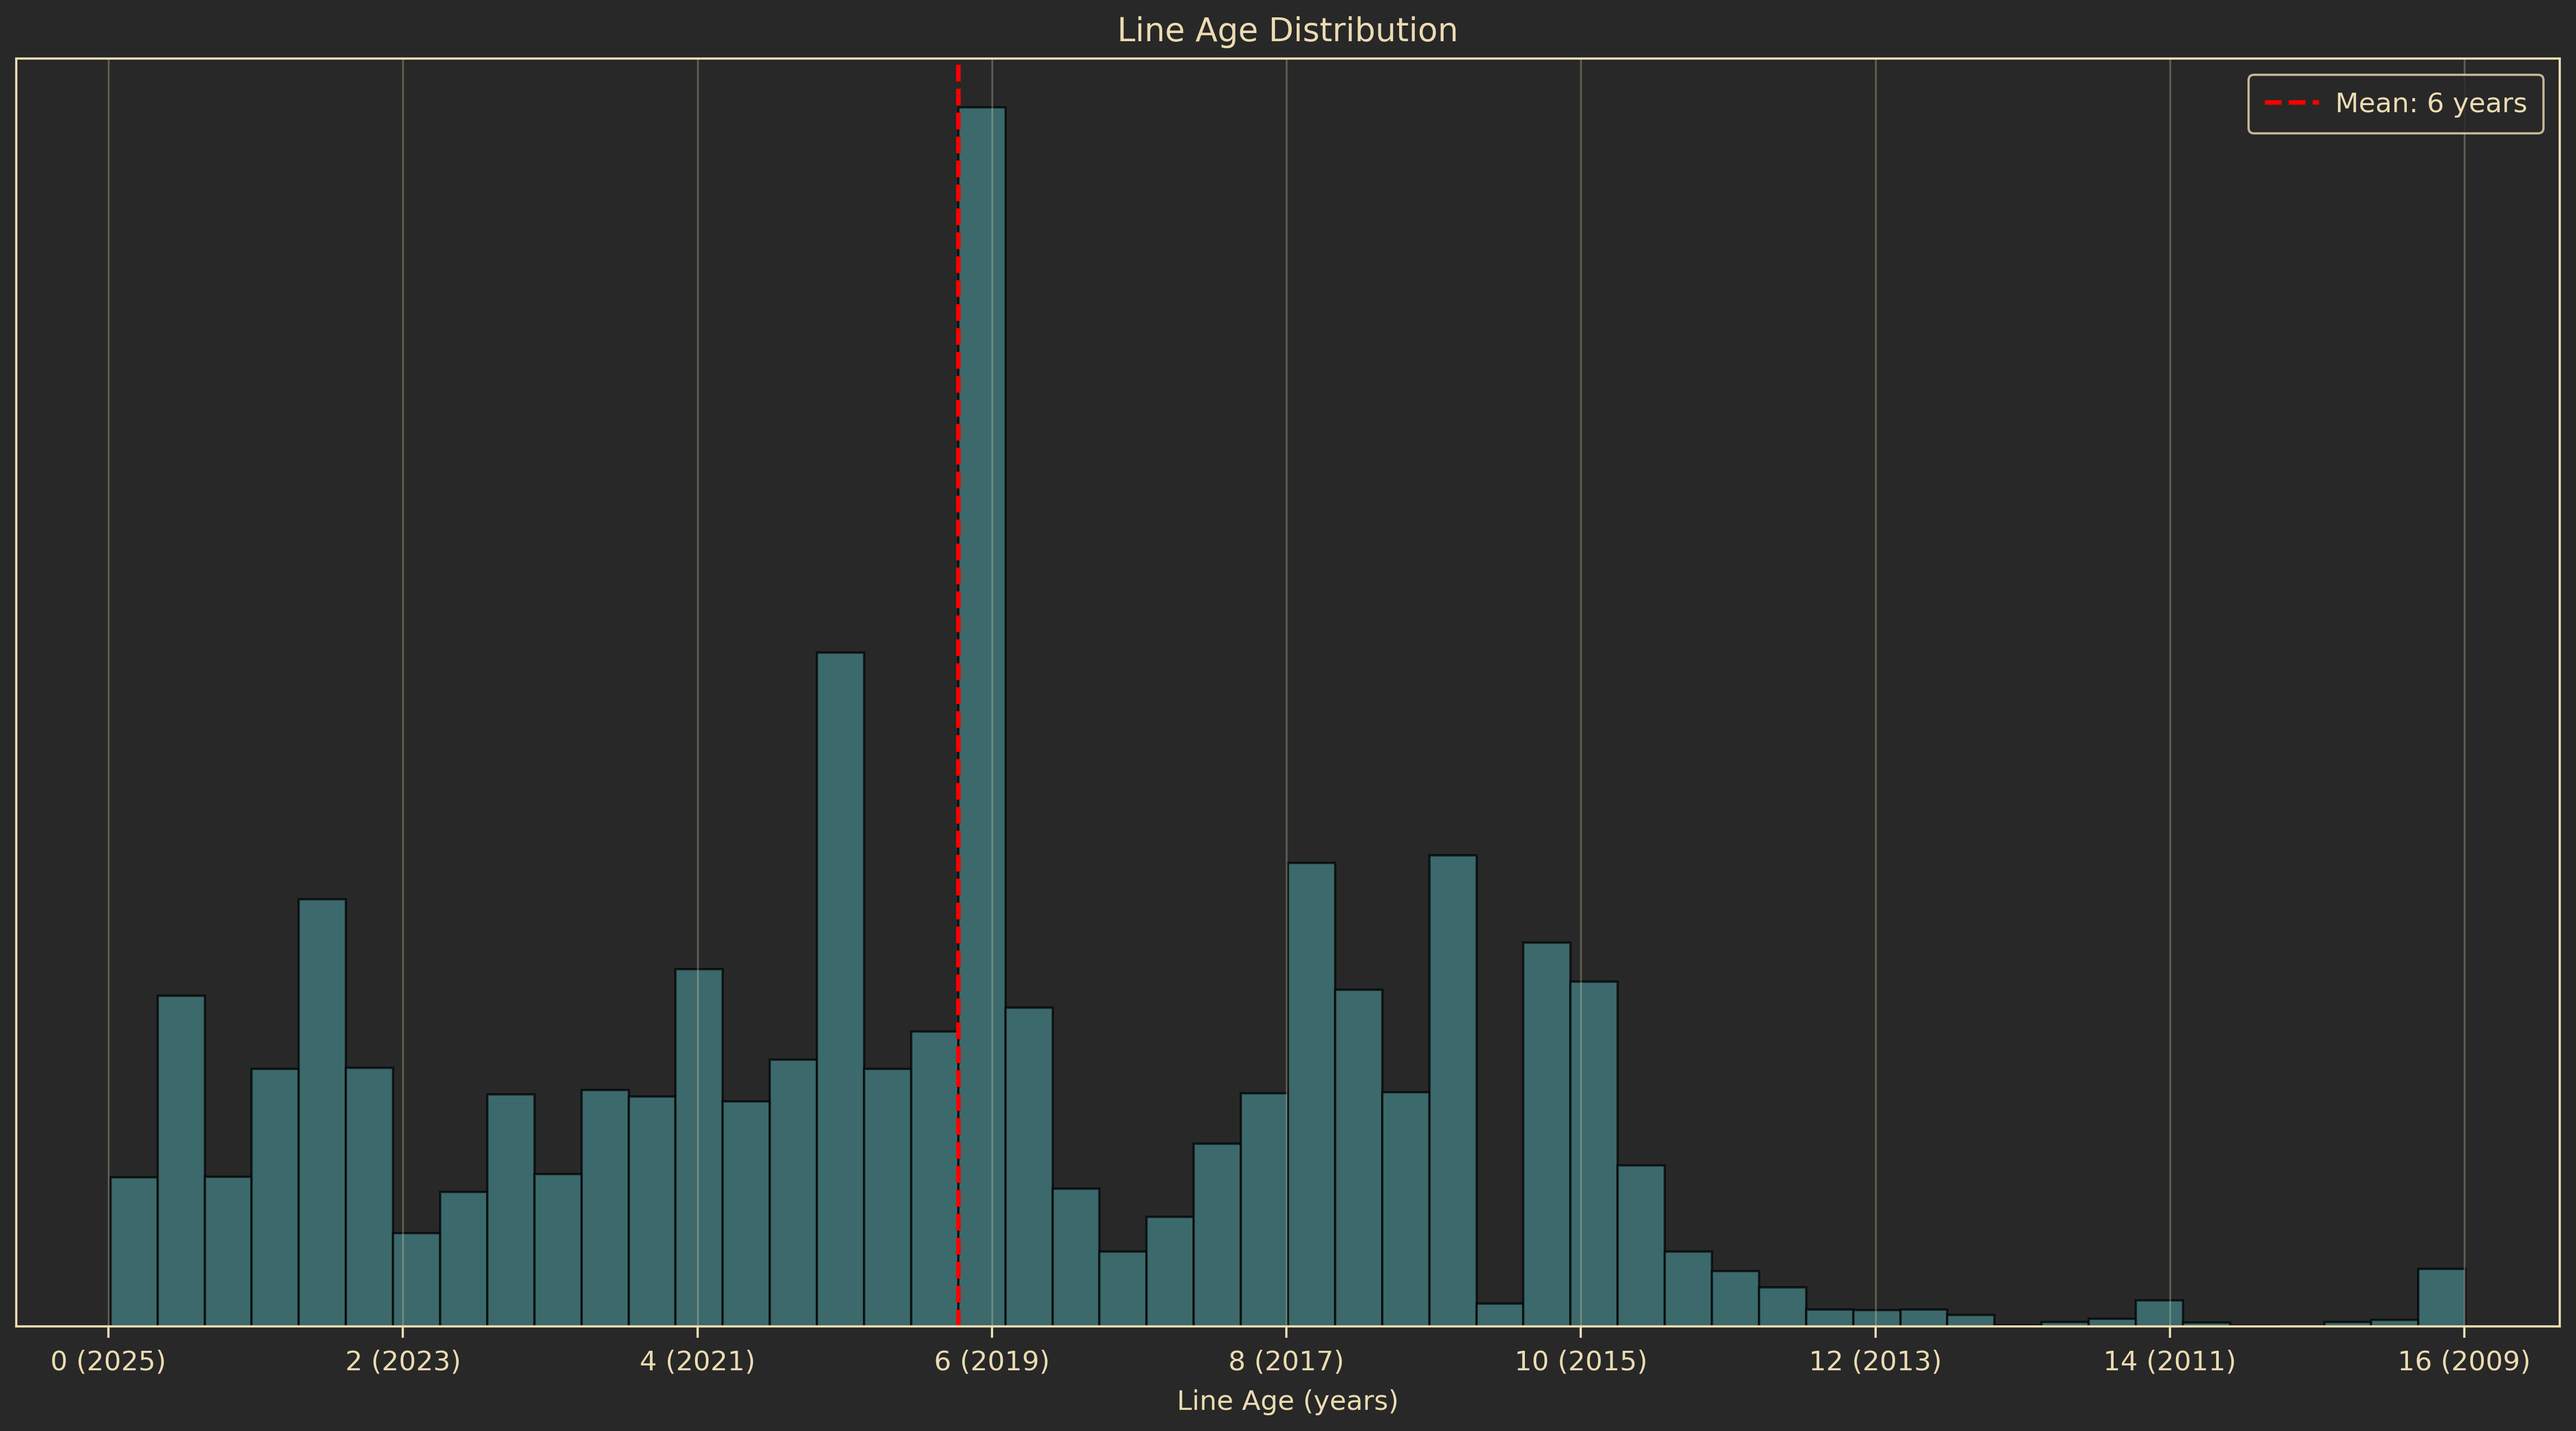
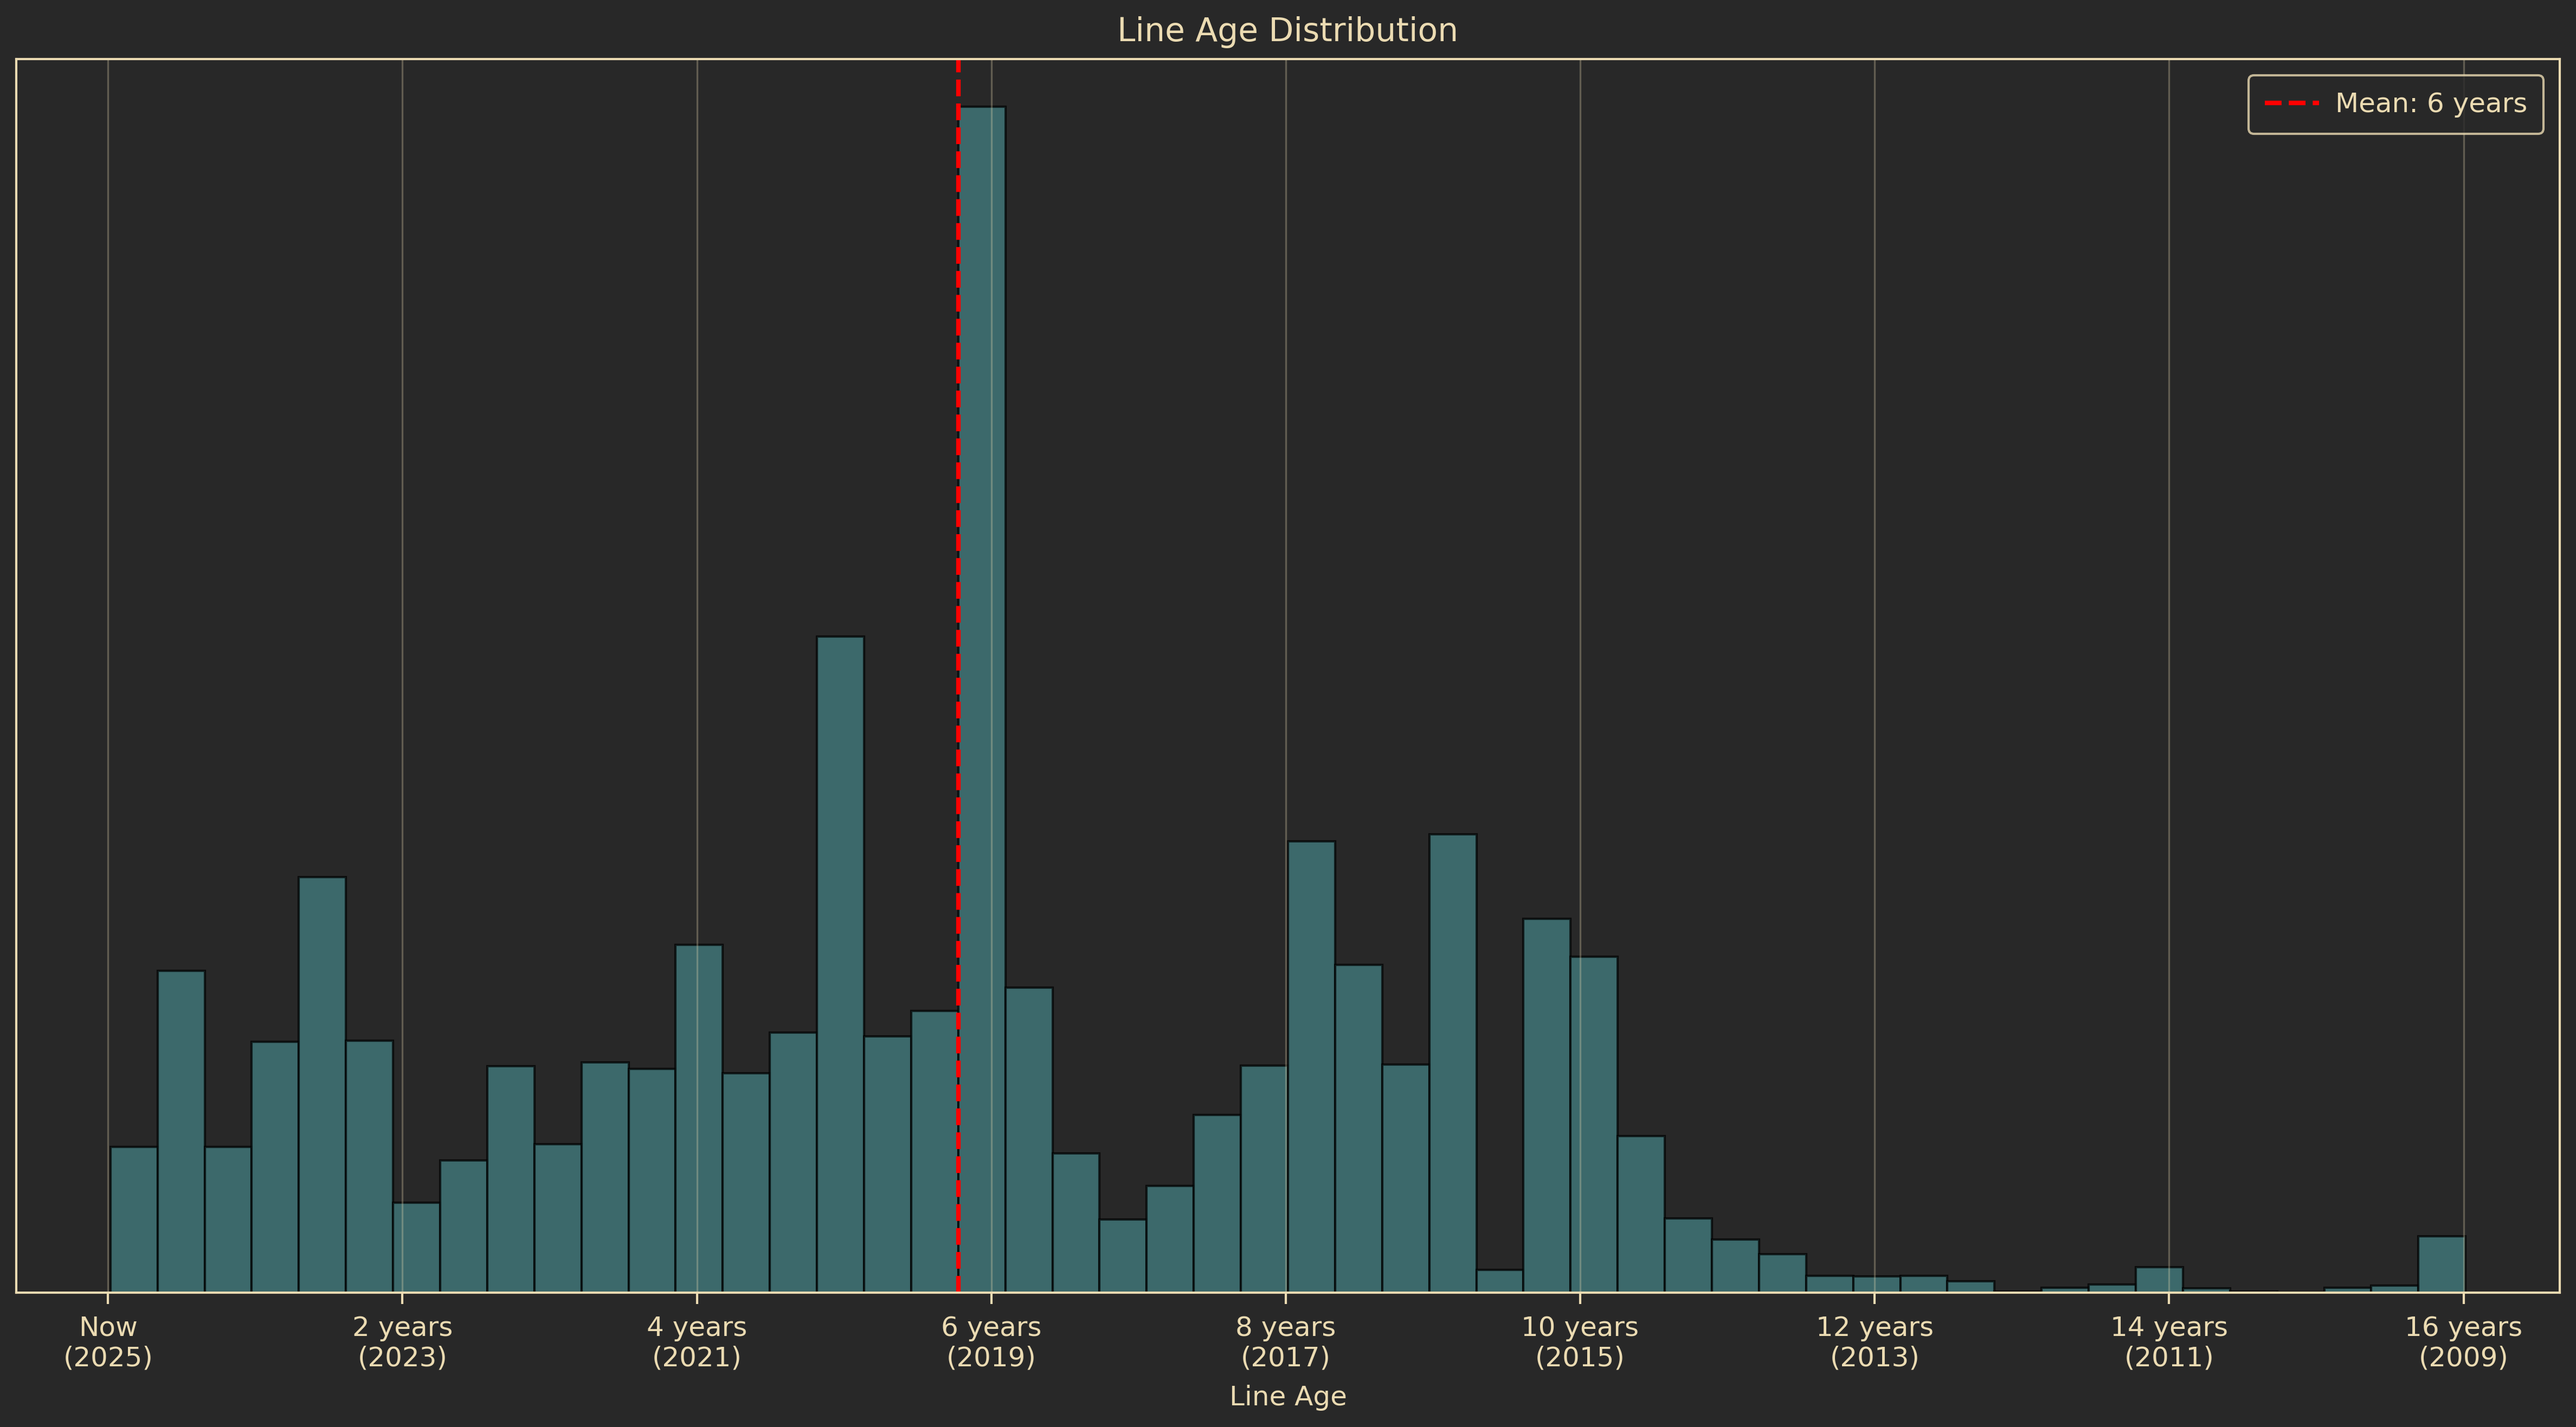
updates to speaker notes

diff --git a/stats/code_age.py b/stats/code_age.py
@@ -103,9 +103,17 @@ class GitTechDebtAnalyzer:
 
         # 1. Line Age Distribution
         # ax1 = plt.subplot(1, 2, 1)
+
+        def _formatter(x, _):
+            """Format x-axis ticks as years"""
+            x = int(x)
+            if x == 0:
+                return "Now\n(2025)"
+            return f"{int(x)} years\n({2025-x})"
+
         plt.gca().xaxis.set(
             # major_locator=mdates.YearLocator(),
-            major_formatter=ticker.FuncFormatter(lambda x, _: f"{int(x)} ({2025-int(x)})")
+            major_formatter=ticker.FuncFormatter(_formatter)
         )
         plt.hist(line_data["age_days"] / 365, bins=50, alpha=0.7, edgecolor="black")
         plt.axvline(
@@ -114,7 +122,7 @@ class GitTechDebtAnalyzer:
             linestyle="--",
             label=f"Mean: {line_data['age_days'].mean() / 365:.0f} years",
         )
-        plt.xlabel("Line Age (years)")
+        plt.xlabel("Line Age")
         # hide y-axis ticks
         plt.gca().yaxis.set_visible(False)
         # plt.ylabel("Frequency")
@@ -138,7 +146,7 @@ def main():
     #     "Enter repository path (or press Enter for current directory): "
     # ).strip()
     # if not repo_path:
-    repo_path = "/home/tomas/dev/indico"
+    repo_path = "/home/troun/dev/indico"
 
     analyzer = GitTechDebtAnalyzer(repo_path)
 

diff --git a/stats/overtime_commits.py b/stats/overtime_commits.py
@@ -72,7 +72,7 @@ def plot_after_hours_commits(year_counts, hour_counts):
     # plt.bar(years, values, color="coral")
     ax.bar(years, values, color=colors)
 
-    ax.set_title("After-hours Commits")
+    ax.set_title("After-hours Commits (commits made outside regular working hours)")
     # plt.xlabel("Year")
     ax.set_ylabel("Commits")
 
@@ -142,7 +142,7 @@ def plot_after_hours_commits(year_counts, hour_counts):
 
 # ---------- USAGE ----------
 if __name__ == "__main__":
-    repo_path = "/home/tomas/dev/indico"  # Default path, can be overridden
+    repo_path = "/home/troun/dev/indico"  # Default path, can be overridden
 
     timestamps = run_git_log(repo_path)
     year_counts, hour_counts = count_after_hours_commits(timestamps)

diff --git a/PITCHME.md b/PITCHME.md
@@ -158,12 +158,11 @@ before being collided.
 ![bg contain](assets/slides/cern/higgs.webp)
 
 <!--
-# The Higgs Boson discovery
-
 - Most famous discovery and of the most important scientific discoveries of this century.
 - awarded with a Nobel prize
 - The missing piece the Standard Model of Particle physics
 - Theorized to exist decades ago, finally observed by CERN in 2012
+- Only the LHC was large and powerful enugh to observe 'the Higgs' directly
 -->
 
 ---
@@ -410,11 +409,36 @@ This is a Python conference so of course we eventually switched to Python
 
 ---
 
-# Stats
+# WIP: The Story Hidden in the Code
 
-Code in Git since 2009. Migrated to GitHub in early 2015.
+<!-- `c5f733` awful hack, but it's only used in tests..
+`bb23d2` A bit hacky, but the only quick way to do it now;
+`d03345` Remove a rather terrible and unused JS file
+`dc541e` Yes, we should use a proper extension point instead, but for now this fixes half the problem -->
+
 
 <!--
+WIP:
+
+Now that we’ve looked at what Indico is and how it works under the hood,
+let’s take a step back and look at the bigger picture.
+
+A project like Indico, with over 20 years of development behind it, carries with it a lot of history
+not just in terms of features, but also in its codebase and its contributors.
+
+There is a lot of things you can learn and a lot of trends you can spot by analyzing the git repository
+I wanted to share a few graphs with you that we find interesting
+
+It can tells us something about the the growth, challenges, and evolution of the project.
+
+Git since 2009 -> migrated from CVS
+
+there are many things you can learn from your git repo about your project and your contributors
+for a project as old as Indico it is interesting to see the trends and how the project has evolved over 
+the years, both in terms of the code but also the community and contributors.
+
+We're gonna explore a bit of that now.
+
 - Repository health metrics - Dawn Foster
 -->
 
@@ -468,6 +492,33 @@ Dealing with technical debt
  -->
 
 ![bg](assets/slides/stats/tech_debt.png)
+
+---
+
+# Maintaining a healthy work-life balance
+
+---
+
+![bg contain](assets/slides/stats/overtime_commits.png)
+
+<!--
+- Maintaining a healthy work-life balance can be difficult at times
+- We can get a good estimation of that by analyzing at what time code is committed throughout the day
+- The main graph shows how many commits were made outside the regular working hours (basically 9-5)
+- 2015 was a particulary difficult year, with a big rewrite of the app and a lot of all-nighters
+- Happy to say that we have improved quite a lot since then and 2025 is looking much better
+
+- it's also interesting to see breakdown of exactly when people tend to commit
+- two times jump out -> just before lunch and just before going home
+ -->
+
+---
+
+<!--
+This is what our senior colleagues look like when we mention 2015
+ -->
+
+![bg contain](assets/slides/stats/vietnam.jpeg)
 
 ---
 
@@ -527,11 +578,15 @@ https://github.com/indico/indico/commit/b1a3e14b90d16ad7883ed550081af54bdbb69bf8
         display: flex;
         gap: 3em;
     }
+
+    .margin {
+      margin-bottom: 2em;
+    }
 </style>
 
 <!-- ![](assets/slides/stats/balls.png) -->
 
-<div class="flex">
+<div class="flex margin">
 <div>
 <div>🇬🇧 Welcome to Indico</div>
 <div>🇩🇪 Willkommen bei Indico</div>
@@ -554,58 +609,42 @@ https://github.com/indico/indico/commit/b1a3e14b90d16ad7883ed550081af54bdbb69bf8
 </div>
 </div>
 
-
----
-
-![bg contain](assets/slides/stats/translations_over_time.png)
+![](assets/slides/stats/balls_linear.png)
 
 <!--
-Over 6000 phrases
+Indico has a very active community of volunteer translators
+it is thanks to them that Indico is available in more than 15 languages!
+it is no small feat -> we have more than 6000 strings
+
+There are also many languages that are currently in progress
+
+We are always for volunteers to help out with the translations so if you
+happen to be using Indico or you are just curious and want to help we'd
+very grateful.
+
+- mention community in general? Indico workshops?
+
  -->
 
----
 
-![bg contain](assets/slides/stats/overtime_commits.png)
+<!-- ---
 
-<!--
-- Very happy I wasn't around at that time
- -->
+![bg contain](assets/slides/stats/translations_over_time.png) -->
 
 ---
 
-<!--
-This is what our senior colleagues look like when we mention 2015
- -->
+# WIP: To close it off..
 
-![bg contain](assets/slides/stats/vietnam.jpeg)
+- Indico has been through many changes over the last (more than) two decades
+- We've switched languages, technologies and databases countless times
+- Some changes were more drastic than others
 
----
+- what makes this really worth it is seeing the impact of our work
+- Do not blindy accept everything people ask for, especially if the maintenance burden is large.
 
-# Lessons learned & Advice
+- we're looking forward to the next 20 years
 
-![bg right:60%](assets/slides/advice/advice.jpeg)
-
----
-
-# How do you stay motivated after so many years?
-
----
-
-# How do you stay motivated after so many years?
-
-> By seeing the impact of your work. Seeing people use your project and appreciate the work you've done.
-
----
-
-# What advice would you give to other maintainers?
-
-> Keep the scope of the project in-mind. Do not blindy accept everything people ask for, especially if the maintenance burden is large.
-
----
-
-# What advice would you give to other maintainers?
-
-> Get some help - even if it is someone just looking at/filtering PRs, it can help a lot
+- we have some merch!
 
 ---
 
